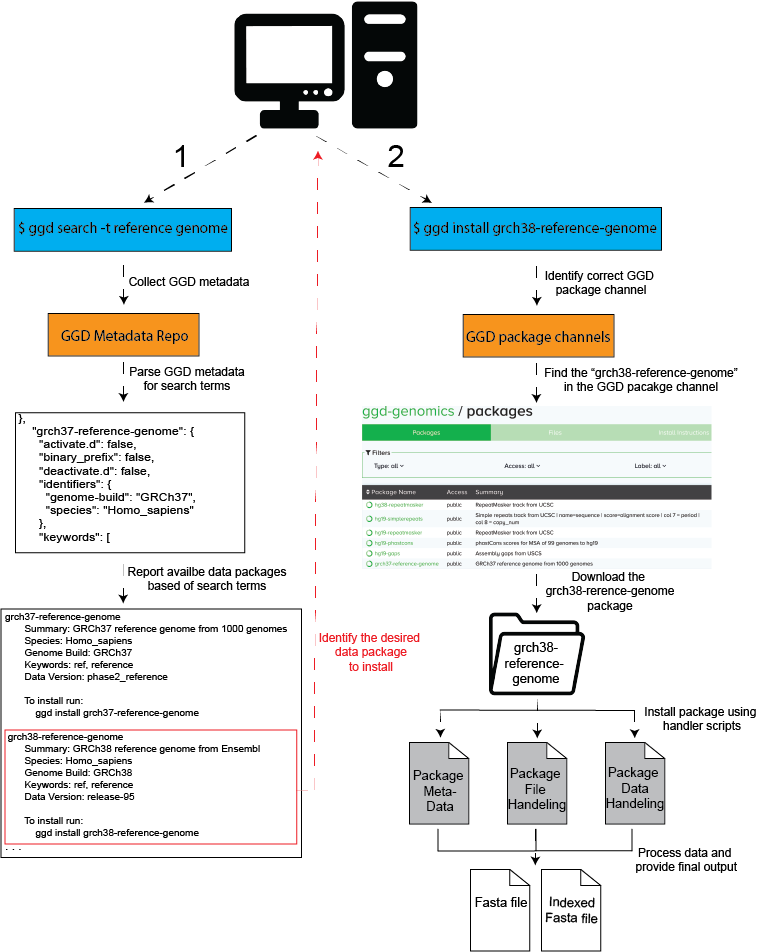
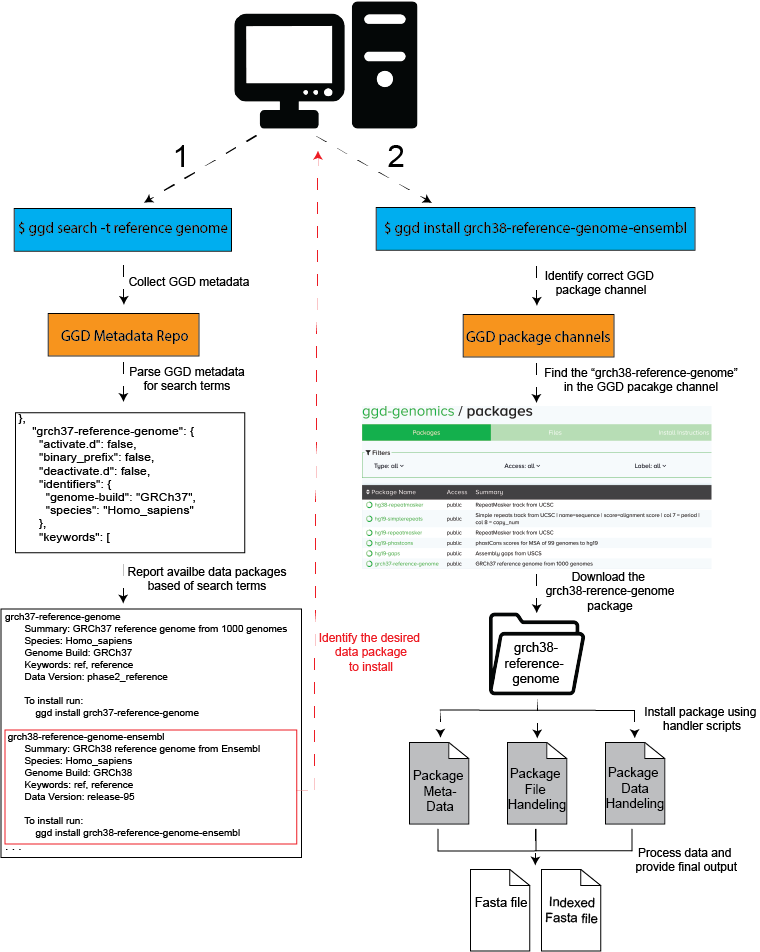
Update docs

Changed region(s): [[0.4842, 0.2132, 0.9382, 0.2742], [0.2724, 0.8529, 0.3026, 0.8834], [0.1816, 0.7616, 0.2118, 0.792]]

diff --git a/docs/source/using-ggd.rst b/docs/source/using-ggd.rst
@@ -97,7 +97,7 @@ and install available processed genomic data packages using the ggd tool.
        To install run:
            ggd install grch37-reference-genome
 
-      grch38-reference-genome
+      grch38-reference-genome-ensembl
        Summary: GRCh37 reference genome from Ensembl
        Species: Homo_sapiens
        Genome Build: GRCh38
@@ -105,7 +105,7 @@ and install available processed genomic data packages using the ggd tool.
        Data Version: Release-95
 
        To install run:
-           ggd install grch38-reference-genome
+           ggd install grch38-reference-genome-ensembl
 
       . . .
 
@@ -114,13 +114,13 @@ and install available processed genomic data packages using the ggd tool.
 
 .. code-block:: bash
 
-    $ ggd install grch38-reference-genome
+    $ ggd install grch38-reference-genome-ensembl
 
-      -> Looking for grch38-reference-genome in the 'ggd-genomics' channel
-      -> grch38-reference-genome exists in ggd-genomics
-      -> grch38-reference-genome is not installed on your system
-      -> grch38-reference-genome has not been installed by conda
-      -> Installing grch38-reference-genome
+      -> Looking for grch38-reference-genome-ensembl in the 'ggd-genomics' channel
+      -> grch38-reference-genome-ensembl exists in ggd-genomics
+      -> grch38-reference-genome-ensembl is not installed on your system
+      -> grch38-reference-genome-ensembl has not been installed by conda
+      -> Installing grch38-reference-genome-ensembl
 
       Solving environment:
 
@@ -129,21 +129,21 @@ and install available processed genomic data packages using the ggd tool.
        environment location: <conda root>
 
          added / updated specs:
-            - grch38-reference-genome
+            - grch38-reference-genome-ensembl
 
       The following packages will be downloaded:
 
-         package                    |            build
-         ---------------------------|-----------------
-         grch38-reference-genome    |                0           6 KB  ggd-genomics
+         package                            |            build
+         -----------------------------------|-----------------
+         grch38-reference-genome-ensembl    |                0           6 KB  ggd-genomics
 
       The following NEW packages will be INSTALLED:
 
-         grch38-reference-genome: 1-0 ggd-genomics
+         grch38-reference-genome-ensembl: 1-0 ggd-genomics
 
 
       Downloading and Extracting Packages
-      grch38-reference-genome          | 6 KB      | ##############################
+      grch38-reference-genome-ensembl          | 6 KB      | ##############################
       Preparing transaction: done
       Verifying transaction: done
       Executing transaction: done
@@ -158,13 +158,13 @@ and install available processed genomic data packages using the ggd tool.
     $ ggd show-env
     ***************************
     Active environment variables:
-    > $ggd_grch38_reference_genome
+    > $ggd_grch38_reference_genome-ensembl
     ***************************
 
-    $ ggd list-files grch38-reference-genome
+    $ ggd list-files grch38-reference-genome-ensembl
 
-    -> <conda root>/share/ggd/Homo_sapiens/GRCh38/grch38-reference-genome/1/grch38.fa
-    -> <conda root>/share/ggd/Homo_sapiens/GRCh38/grch38-reference-genome/1/grch38.fa.fai
+    -> <conda root>/share/ggd/Homo_sapiens/GRCh38/grch38-reference-genome-ensembl/1/grch38.fa
+    -> <conda root>/share/ggd/Homo_sapiens/GRCh38/grch38-reference-genome-ensembl/1/grch38.fa.fai
 
 
 4. Use the files

diff --git a/docs/source/index.rst b/docs/source/index.rst
@@ -67,7 +67,7 @@ Example:
        To install run:
            ggd install grch37-reference-genome
     
-      grch38-reference-genome
+      grch38-reference-genome-ensembl
        Summary: GRCh37 reference genome from Ensembl
        Species: Homo_sapiens
        Genome Build: GRCh38
@@ -75,7 +75,7 @@ Example:
        Data Version: Release-95
 
        To install run:
-           ggd install grch38-reference-genome
+           ggd install grch38-reference-genome-ensembl
     
       . . . 
 
@@ -84,18 +84,18 @@ Example:
     #   (See ggd install)
     #******************************
 
-    $ ggd install grch38-reference-genome
+    $ ggd install grch38-reference-genome-ensembl
 
 
-      Looking for grch38-reference-genome in the 'ggd-genomics' channel
+      Looking for grch38-reference-genome-ensembl in the 'ggd-genomics' channel
     
-      grch38-reference-genome exists in ggd-genomics
+      grch38-reference-genome-ensembl exists in ggd-genomics
     
-      grch38-reference-genome is not installed on your system
+      grch38-reference-genome-ensembl is not installed on your system
     
-      grch38-reference-genome has not been installed by conda
+      grch38-reference-genome-ensembl has not been installed by conda
     
-      Installing grch38-reference-genome
+      Installing grch38-reference-genome-ensembl
       Solving environment:
      
        ## Package Plan ##
@@ -103,22 +103,22 @@ Example:
        environment location: <conda root>
     
          added / updated specs: 
-            - grch38-reference-genome
+            - grch38-reference-genome-ensembl
     
     
       The following packages will be downloaded:
     
-         package                    |            build
-        ---------------------------|-----------------
-         grch38-reference-genome    |                0           6 KB  ggd-genomics
+         package                            |            build
+        ------------------------------------|-----------------
+         grch38-reference-genome-ensembl    |                0           6 KB  ggd-genomics
      
       The following NEW packages will be INSTALLED:
     
-         grch38-reference-genome: 1-0 ggd-genomics
+         grch38-reference-genome-ensembl: 1-0 ggd-genomics
     
     
       Downloading and Extracting Packages
-      grch38-reference-genome          | 6 KB      | ###########################################################################################
+      grch38-reference-genome-ensembl          | 6 KB      | ###########################################################################################
       Preparing transaction: done
       Verifying transaction: done
       Executing transaction: done
@@ -135,13 +135,13 @@ Example:
 
         ***************************
         Active environment variables:
-        > $ggd_grch38_reference_genome
+        > $ggd_grch38_reference_genome-ensembl
         ***************************
 
-    $ ggd list-files grch38-reference-genome
+    $ ggd list-files grch38-reference-genome-ensembl
 
-      <conda root>/ share/ggd/Homo_sapiens/GRCh38/grch38-reference-genome/1/grch38.fa
-      <conda root>/share/ggd/Homo_sapiens/GRCh38/grch38-reference-genome/1/grch38.fa.fai
+      <conda root>/ share/ggd/Homo_sapiens/GRCh38/grch38-reference-genome-ensembl/1/grch38.fa
+      <conda root>/share/ggd/Homo_sapiens/GRCh38/grch38-reference-genome-ensembl/1/grch38.fa.fai
 
 
     #******************************

diff --git a/docs/source/recipes.rst b/docs/source/recipes.rst
@@ -18,10 +18,12 @@ Available packages
     </thead>
     <tbody><tr><td><a href="recipes/hg38-simplerepeats/README.html">hg38-simplerepeats</a></td><td>1</td><td><i class="fa fa-dot-circle-o"></i></td><td><i class="fa fa-dot-circle-o"></i></td><td><i class="fa fa-desktop"></i></td></tr>
     <tr><td><a href="recipes/hg38-repeatmasker/README.html">hg38-repeatmasker</a></td><td>1</td><td><i class="fa fa-dot-circle-o"></i></td><td><i class="fa fa-dot-circle-o"></i></td><td><i class="fa fa-desktop"></i></td></tr>
+    <tr><td><a href="recipes/grch38-reference-genome-ensembl/README.html">grch38-reference-genome-ensembl</a></td><td>1</td><td><i class="fa fa-dot-circle-o"></i></td><td><i class="fa fa-dot-circle-o"></i></td><td><i class="fa fa-desktop"></i></td></tr>
     <tr><td><a href="recipes/hg19-repeatmasker/README.html">hg19-repeatmasker</a></td><td>1</td><td><i class="fa fa-dot-circle-o"></i></td><td><i class="fa fa-dot-circle-o"></i></td><td><i class="fa fa-desktop"></i></td></tr>
     <tr><td><a href="recipes/hg19-phastcons/README.html">hg19-phastcons</a></td><td>1</td><td><i class="fa fa-dot-circle-o"></i></td><td><i class="fa fa-dot-circle-o"></i></td><td><i class="fa fa-desktop"></i></td></tr>
     <tr><td><a href="recipes/hg19-simplerepeats/README.html">hg19-simplerepeats</a></td><td>1</td><td><i class="fa fa-dot-circle-o"></i></td><td><i class="fa fa-dot-circle-o"></i></td><td><i class="fa fa-desktop"></i></td></tr>
     <tr><td><a href="recipes/hg19-gaps/README.html">hg19-gaps</a></td><td>1</td><td><i class="fa fa-dot-circle-o"></i></td><td><i class="fa fa-dot-circle-o"></i></td><td><i class="fa fa-desktop"></i></td></tr>
+    <tr><td><a href="recipes/grch37-reference-genome-ensembl/README.html">grch37-reference-genome-ensembl</a></td><td>1</td><td><i class="fa fa-dot-circle-o"></i></td><td><i class="fa fa-dot-circle-o"></i></td><td><i class="fa fa-desktop"></i></td></tr>
     <tr><td><a href="recipes/grch37-reference-genome/README.html">grch37-reference-genome</a></td><td>1</td><td><i class="fa fa-dot-circle-o"></i></td><td><i class="fa fa-dot-circle-o"></i></td><td><i class="fa fa-desktop"></i></td></tr>
     </tbody>
     <tfoot></tfoot>

diff --git a/docs/source/recipes/grch37-reference-genome-ensembl/README.rst b/docs/source/recipes/grch37-reference-genome-ensembl/README.rst
@@ -1,0 +1,36 @@
+.. _`grch37-reference-genome-ensembl`:
+
+grch37-reference-genome-ensembl
+===============================
+
+|downloads|
+
+The GRCh37 reference genome from Ensembl. Release 75. Primary Assembly file
+
+================ ===========
+GGD Pacakge      grch37-reference-genome-ensembl 
+GGD Channel      ggd-genomics
+Pkg Version(s)   1
+Recipe           https://github.com/gogetdata/ggd-recipes/tree/master/recipes/genomics/Homo_sapiens/GRCh37/grch37-reference-genome-ensembl
+Species          Homo_sapiens
+Genome Build     GRCh37
+================ ===========
+
+
+
+Installation
+------------
+
+.. highlight: bash
+
+With ggd insatlled and an activated ggd channel (see :ref:`using-ggd`), install with::
+
+   ggd install -c ggd-genomics grch37-reference-genome-ensembl
+
+
+
+
+
+
+.. |downloads| image:: https://anaconda.org/ggd-genomics/grch37-reference-genome-ensembl/badges/downloads.svg
+               :target: https://anaconda.org/ggd-genomics/grch37-reference-genome-ensembl

diff --git a/docs/source/recipes/grch38-reference-genome-ensembl/README.rst b/docs/source/recipes/grch38-reference-genome-ensembl/README.rst
@@ -1,0 +1,36 @@
+.. _`grch38-reference-genome-ensembl`:
+
+grch38-reference-genome-ensembl
+===============================
+
+|downloads|
+
+The GRCh38 reference genome from Ensembl. Release 95. Primary Assembly file
+
+================ ===========
+GGD Pacakge      grch38-reference-genome-ensembl 
+GGD Channel      ggd-genomics
+Pkg Version(s)   1
+Recipe           https://github.com/gogetdata/ggd-recipes/tree/master/recipes/genomics/Homo_sapiens/GRCh38/grch38-reference-genome-ensembl
+Species          Homo_sapiens
+Genome Build     GRCh38
+================ ===========
+
+
+
+Installation
+------------
+
+.. highlight: bash
+
+With ggd insatlled and an activated ggd channel (see :ref:`using-ggd`), install with::
+
+   ggd install -c ggd-genomics grch38-reference-genome-ensembl
+
+
+
+
+
+
+.. |downloads| image:: https://anaconda.org/ggd-genomics/grch38-reference-genome-ensembl/badges/downloads.svg
+               :target: https://anaconda.org/ggd-genomics/grch38-reference-genome-ensembl

diff --git a/docs/source/ggd-search.rst b/docs/source/ggd-search.rst
@@ -90,7 +90,7 @@ Some examples of using the `ggd search` tool:
        Data Version: phase2_reference
 
        To install run:
-           ggd install grch37-reference-genomet
+           ggd install grch37-reference-genome
 
       grch38-reference-genome
 
